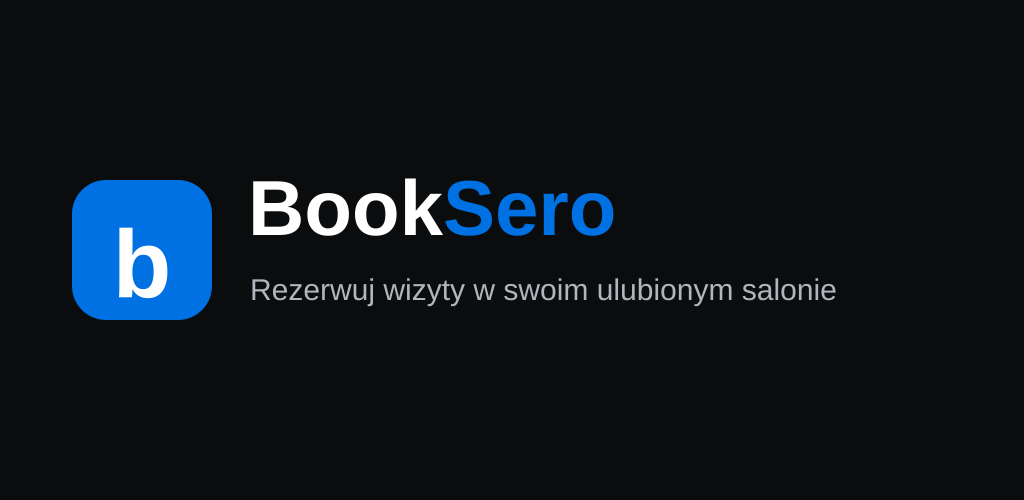
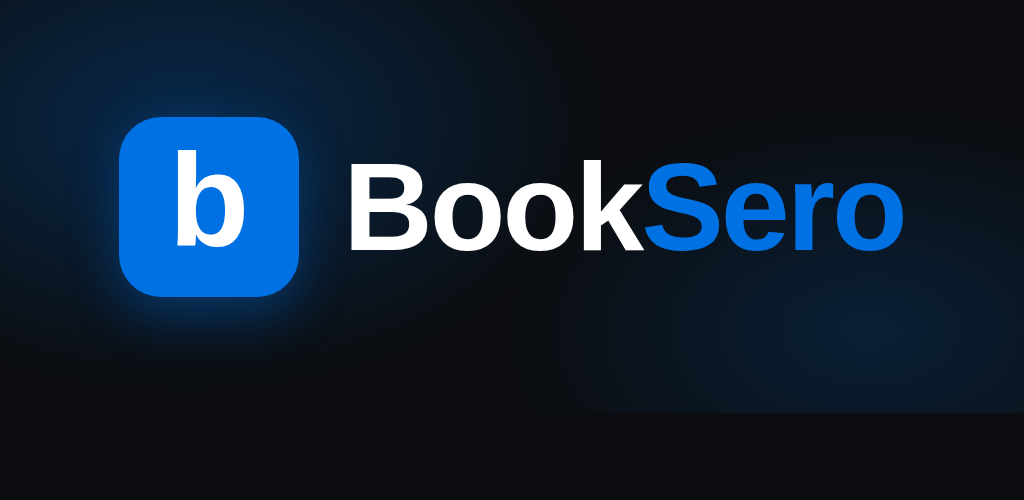
Grafika promocyjna Google Play: wycentrowana, bez tekstu (16 rynków)
Źródło: docs/store/feature-graphic.html, render headless Chrome 1024×500.

Claude-Session: https://claude.ai/code/session_01AYiJxdwtbYZz2neSTW7U2R

diff --git a/docs/store/feature-graphic.html b/docs/store/feature-graphic.html
@@ -1,0 +1,13 @@
+<!doctype html><html><head><meta charset="utf-8"><style>
+html,body{margin:0;width:1024px;height:500px;overflow:hidden;background:#0b0d10;font-family:"Liberation Sans",Arial,Helvetica,sans-serif}
+.bg{position:absolute;inset:0;background:
+ radial-gradient(600px 380px at 18% 30%,rgba(0,113,227,.28),transparent 70%),
+ radial-gradient(520px 320px at 85% 80%,rgba(0,113,227,.18),transparent 70%),#0b0d10}
+.wrap{position:absolute;inset:0;display:flex;align-items:center;justify-content:center;gap:44px}
+.icon{width:180px;height:180px;border-radius:42px;background:#0071e3;display:flex;align-items:center;justify-content:center;box-shadow:0 18px 50px rgba(0,113,227,.35)}
+.icon span{color:#fff;font-weight:800;font-size:132px;line-height:1;transform:translateY(-6px)}
+.name{font-weight:800;font-size:124px;letter-spacing:-3px;line-height:1;color:#fff}
+.name b{color:#0071e3;font-weight:800}
+</style></head><body><div class="bg"></div>
+<div class="wrap"><div class="icon"><span>b</span></div><div class="name">Book<b>Sero</b></div></div>
+</body></html>
